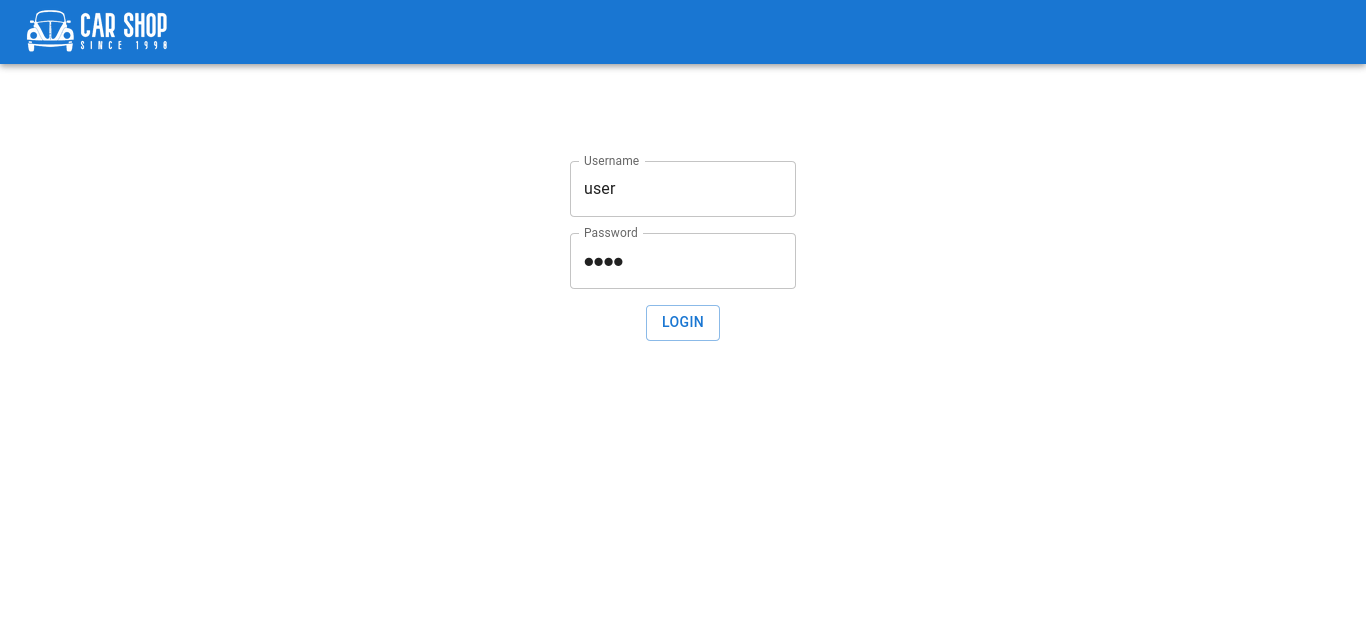
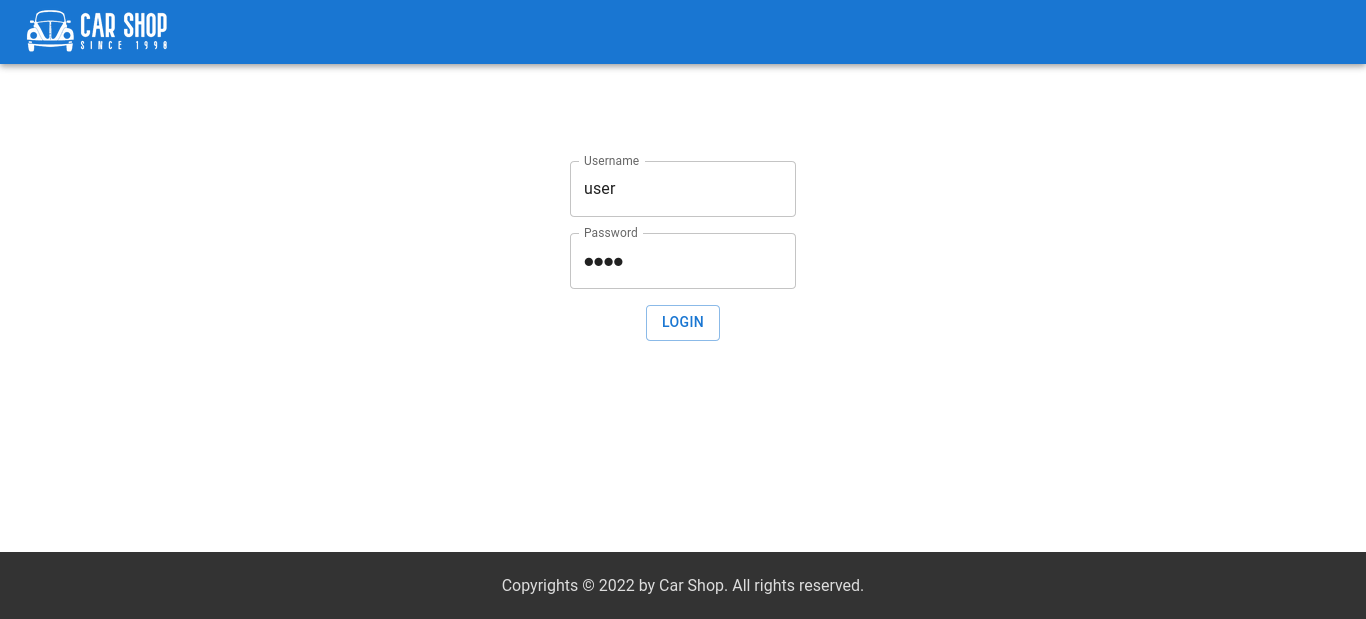
add footer

Changed region(s): [[0.0, 0.8901, 1.0, 1.0]]

diff --git a/Car Shop Front-end/src/App.js b/Car Shop Front-end/src/App.js
@@ -1,13 +1,24 @@
 import React from "react";
 import ButtonAppBar from "./ButtonAppBar";
+import Footer from "./components/Footer";
 import Login from "./components/Login";
 import { AuthProvider } from "./context/AuthContext";
 
 function App() {
   return (
     <AuthProvider>
-      <ButtonAppBar />
-      <Login />
+      <div
+        style={{
+          minHeight: "100vh",
+          display: "flex",
+          flexDirection: "column",
+          // justifyContent: "space-between",
+        }}
+      >
+        <ButtonAppBar />
+        <Login />
+        <Footer />
+      </div>
     </AuthProvider>
   );
 }

diff --git a/Car Shop Front-end/src/components/Footer.js b/Car Shop Front-end/src/components/Footer.js
@@ -1,0 +1,20 @@
+import React from "react";
+
+const Footer = () => {
+  return (
+    <div>
+      <div
+        style={{
+          backgroundColor: "#333",
+          color: "#ddd",
+          padding: "1.5rem",
+          textAlign: "center",
+        }}
+      >
+        Copyrights &copy; 2022 by Car Shop. All rights reserved.
+      </div>
+    </div>
+  );
+};
+
+export default Footer;

diff --git a/Car Shop Front-end/src/ButtonAppBar.js b/Car Shop Front-end/src/ButtonAppBar.js
@@ -27,7 +27,7 @@ export default function ButtonAppBar() {
   };
 
   return (
-    <Box sx={{ flexGrow: 1 }}>
+    <Box>
       <AppBar position="static">
         <Toolbar>
           <Box sx={{ flexGrow: 1 }}>

diff --git a/Car Shop Front-end/src/components/Login.js b/Car Shop Front-end/src/components/Login.js
@@ -47,7 +47,7 @@ const Login = () => {
     return <Carlist />;
   } else {
     return (
-      <div>
+      <div style={{ flexGrow: 1 }}>
         <Warning />
         <Stack
           spacing={2}
